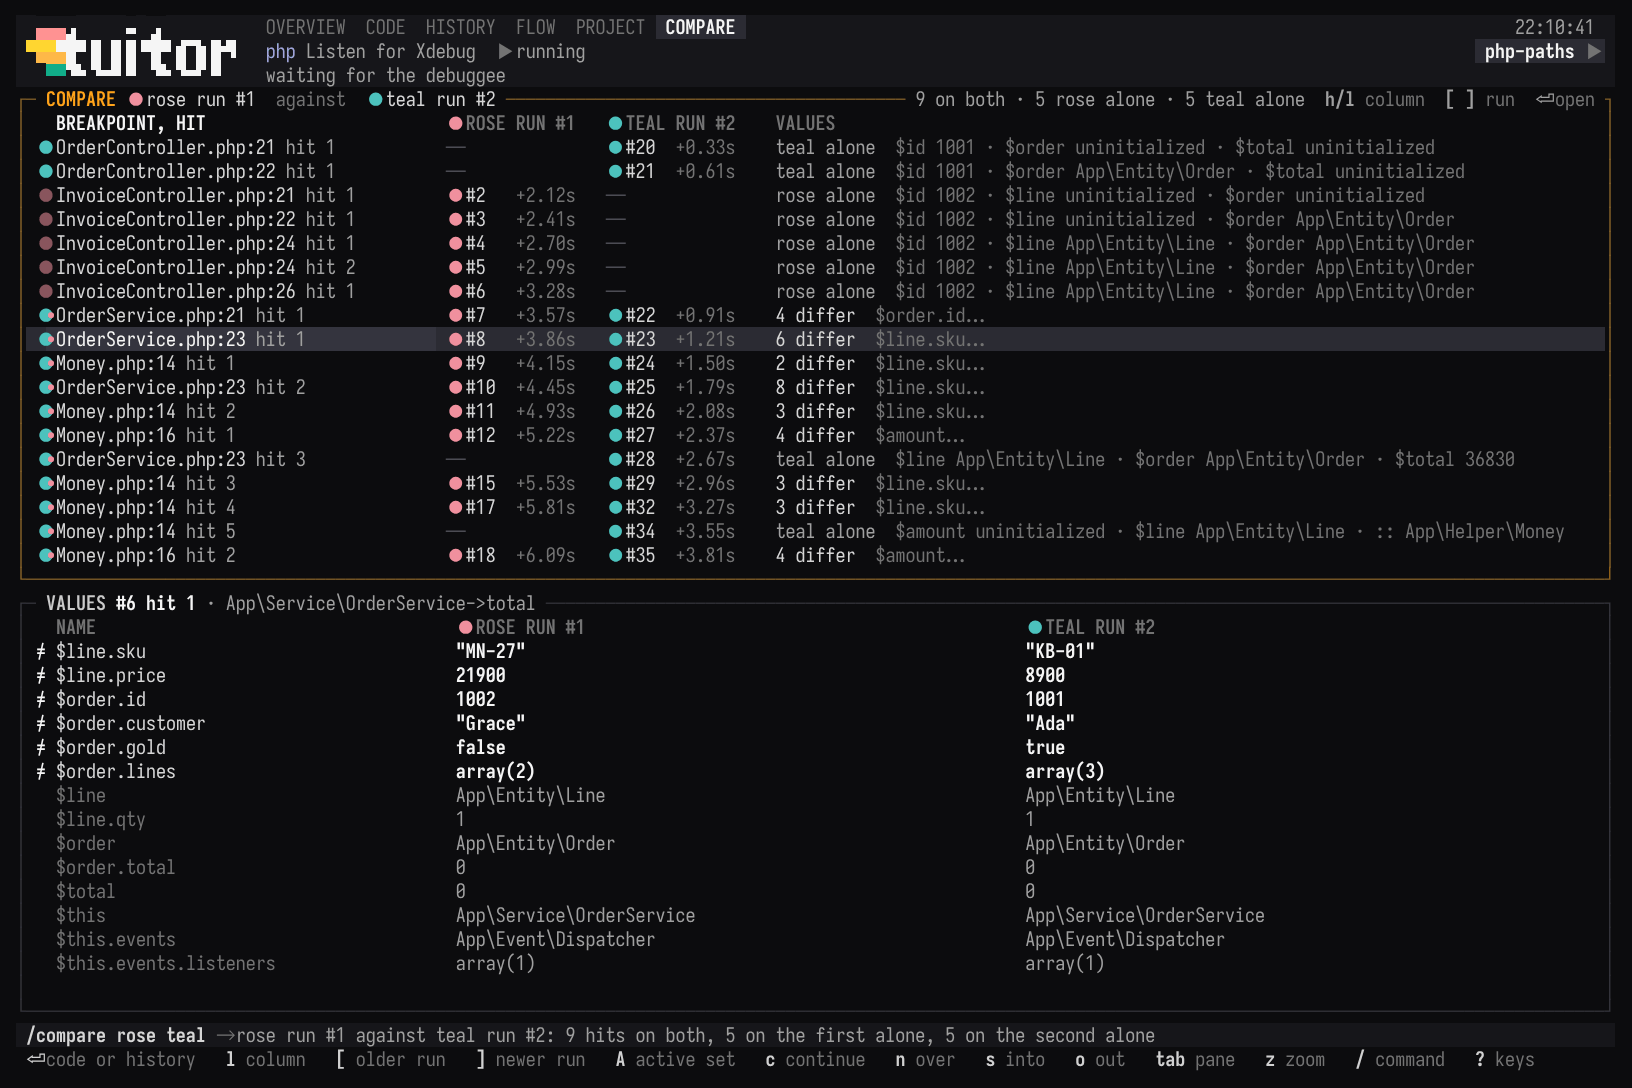
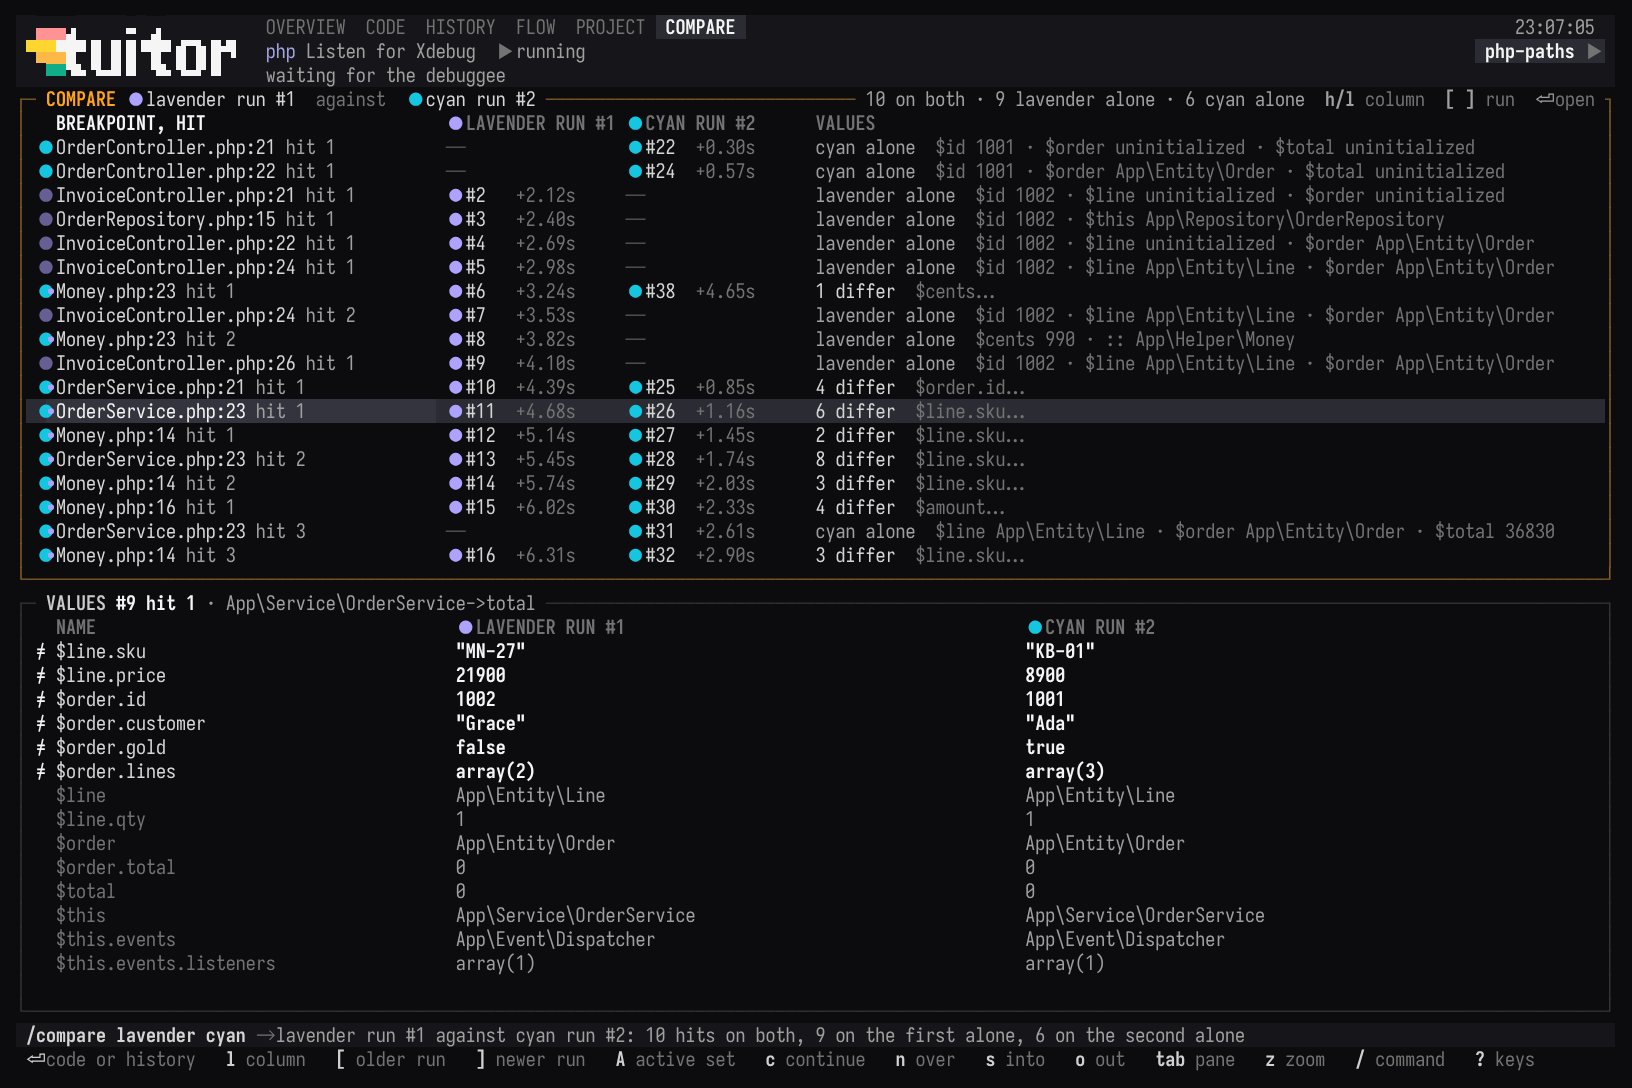
Render every screenshot again, with PATHS as call trees in which the invoice's path to the helper and the one through the listener are marked, and the sets, COMPARE and TIMELINE of the invoice's and the order's marks, in the colours a new project's sets get.

diff --git a/README.md b/README.md
@@ -168,7 +168,7 @@ pick a value, `h` and `l` show the stop of its change before or after the one on
 what it was and became, and `enter` opens that stop in OVERVIEW. TIMELINE shows changes,
 not whether they are wrong.
 
-![TIMELINE in the php-paths example: the invoice request's stops in lavender, the order request's in cyan, ↷ where breakpoints of pink recorded and the program went on; h went to the change of $total at stop #28, 8900 → 36830](assets/screenshots/timeline.png)
+![TIMELINE in the php-paths example: the invoice request's stops in lavender, the order request's in cyan, ↷ where the repository's breakpoint, in lavender alone, recorded and the program went on; h went to the change of $rows at stop #9, array(2) → array(3)](assets/screenshots/timeline.png)
 
 ### FLOW
 
@@ -260,7 +260,7 @@ also while the program runs, and `g a` lists the sets to pick one; `M` puts the 
 selected, or on the SOURCE line, in the active set or takes it out, `D` in BREAKPOINTS deletes a
 set, and `b` adds to the active set.
 
-![OVERVIEW in the php-paths example at a breakpoint in OrderService of lavender, the active set, which cyan shares (the small cyan dot); in BREAKPOINTS those only in cyan or pink record only, and each breakpoint has a dot for every set it is in](assets/screenshots/sets.png)
+![OVERVIEW in the php-paths example at a breakpoint in OrderService of lavender, the active set, which cyan shares (the small cyan dot); in BREAKPOINTS those only in cyan, OrderController's, record only, and each breakpoint has a dot for every set it is in](assets/screenshots/sets.png)
 
 A breakpoint has the colour of the active set when it is in it, else of the first set it
 joined: full when it stops the program, dimmer when it only records, with a smaller `•` in
@@ -280,7 +280,7 @@ with what it read. `/compare lavender cyan` names the sets and `/compare cyan@3 
 two of FLOW's runs; `[` and `]` take a side from an older or newer run, and `enter` opens the
 breakpoint in CODE or a side's stop in HISTORY.
 
-![COMPARE in the php-paths example: lavender in the invoice request against cyan in the order request, which share the breakpoints in OrderService and Money; each controller's hits are on one side alone, and VALUES lists the six values that differ at the first hit of OrderService.php:23](assets/screenshots/compare.png)
+![COMPARE in the php-paths example: lavender in the invoice request against cyan in the order request, which share the breakpoints in OrderService and Money; each controller's hits and the repository's are on one side alone, and VALUES lists the six values that differ at the first hit of OrderService.php:23](assets/screenshots/compare.png)
 
 ### Paths through a line
 
@@ -305,7 +305,7 @@ two marks share is one breakpoint in both sets, where COMPARE lines the paths up
 what its limits cut short and what no server sees in the language: a container's, a router's or
 an event's calls, Angular's template bindings, calls through interfaces.
 
-![PATHS through the helper Money::lineTotal in the php-paths example: a tree per controller and the test, each controller's call into the repository and the format after the service, the service's two ways to the helper, one through the event dispatcher to a listener that a FLOW run showed (⇢), and the lines of the stage under the cursor](assets/screenshots/paths.png)
+![PATHS through the helper Money::lineTotal in the php-paths example: a tree per controller and the test, each controller's call into the repository and the format after the service, the service's two ways to the helper (⋔), one through the event dispatcher to a listener that a FLOW run showed (⇢); the invoice's path straight to the helper marked lavender, the one through the listener cyan, and below the service's lines in cyan](assets/screenshots/paths.png)
 
 tuitor runs intelephense (PHP), typescript-language-server (TypeScript, JavaScript, Angular),
 rust-analyzer (Rust) and gopls (Go), from `PATH` or as the `[lsp]` table of
